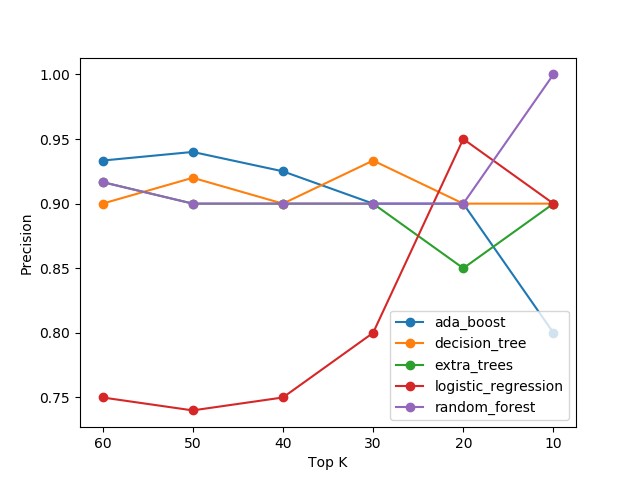
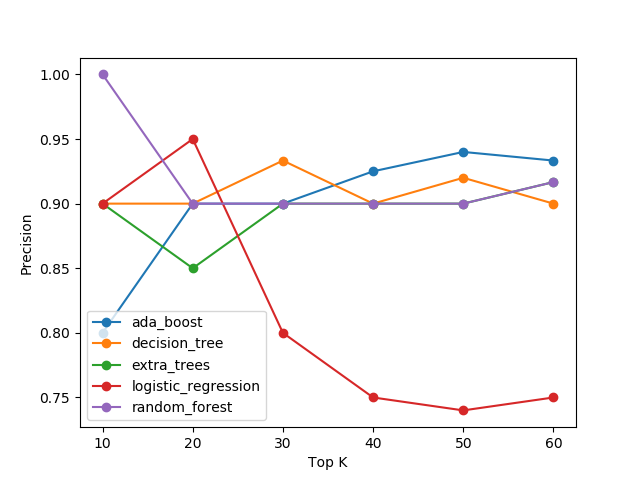
refactored precision_at_topK and recall_at_topK

diff --git a/Advanced-ML-Eval/run_fake_news_exp1.py b/Advanced-ML-Eval/run_fake_news_exp1.py
@@ -63,8 +63,8 @@ if __name__ == '__main__':
         sm.produce_empirical_risk_curves()
 
         # produce precision/recall at topK curves
-        sm.produce_curves_topK(topKs=[60, 50, 40, 30, 20, 10], metric='precision')
-        sm.produce_curves_topK(topKs=[60, 50, 40, 30, 20, 10], metric='recall')
+        sm.produce_curves_topK(topKs=[10, 20, 30, 40, 50, 60], metric='precision')
+        sm.produce_curves_topK(topKs=[10, 20, 30, 40, 50, 60], metric='recall')
 
         # produce jaccard similarity at topK
         sm.compute_jaccard_similarity(topKs=list(range(20, 200, 20)))

diff --git a/Advanced-ML-Eval/AdvancedEvaluation.py b/Advanced-ML-Eval/AdvancedEvaluation.py
@@ -260,7 +260,7 @@ class ShallowModel:
 
         plt.legend(loc='best')
         plt.xlabel('Top K')
-        ax.set_xlim(ax.get_xlim()[::-1])
+        # ax.set_xlim(ax.get_xlim()[::-1])
         if metric == 'precision':
             plt.ylabel('Precision')
             plt.savefig(os.path.join(self.plots_output_folder, 'precisions_topK.png'))
